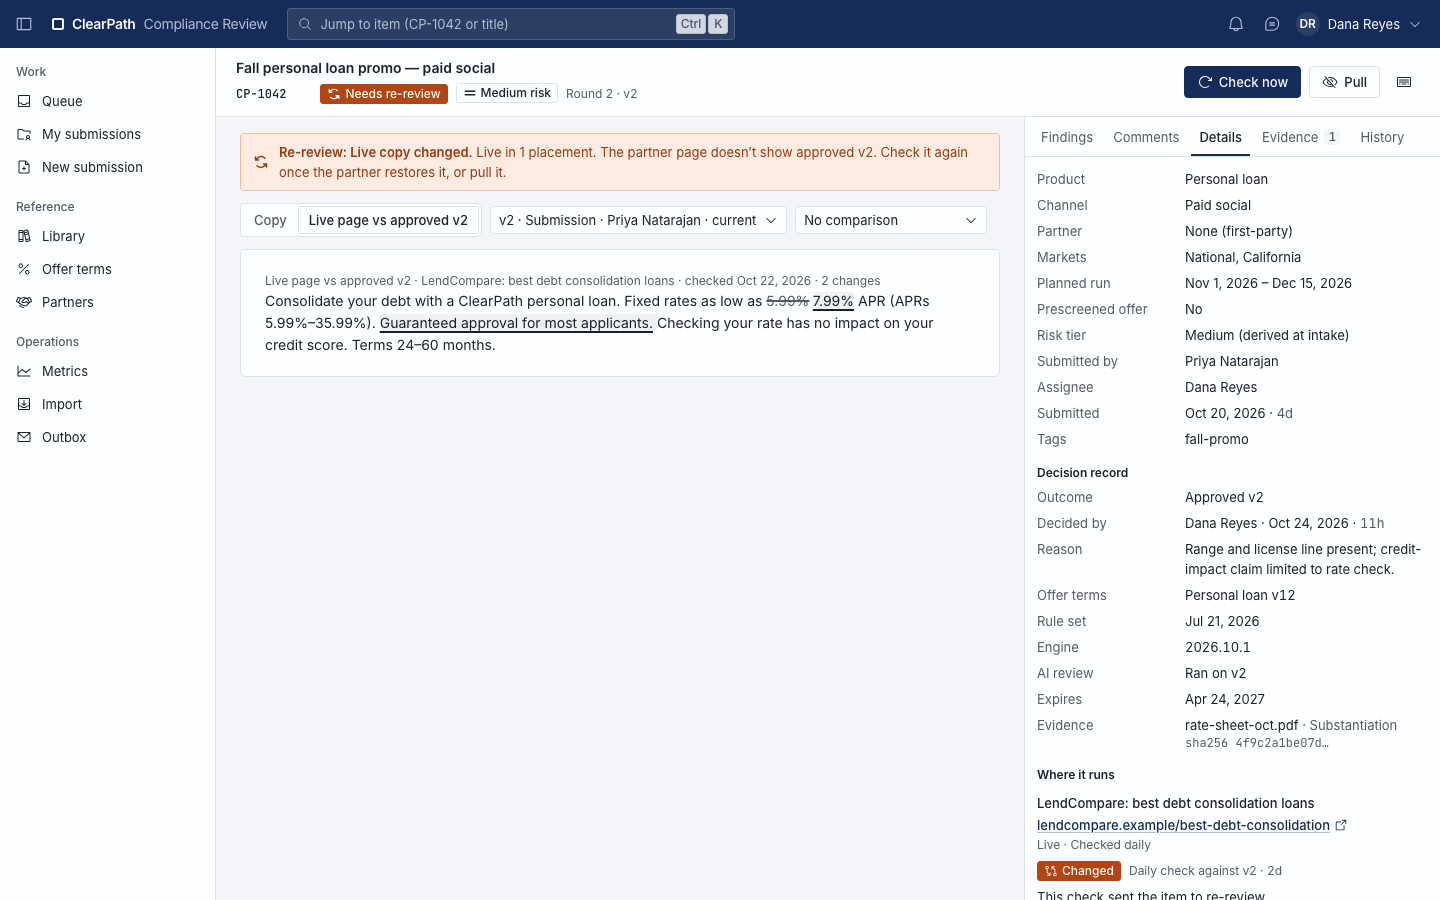
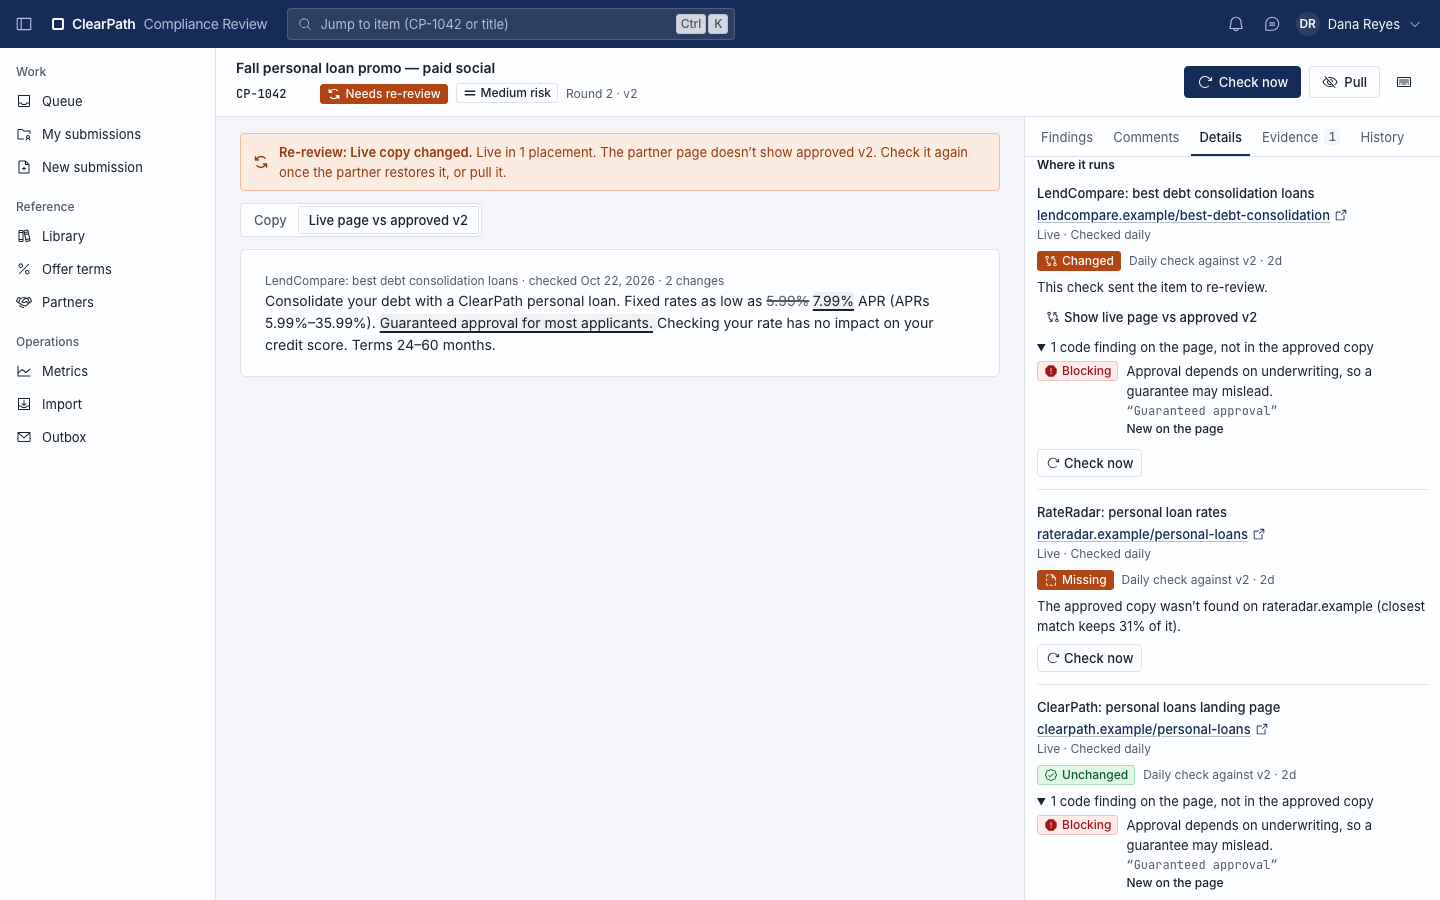
UI review fixes: one AI term, override reason row, live mode controls, Apply style

diff --git a/frontend/e2e/screenshots-walkthrough-fixes.spec.ts b/frontend/e2e/screenshots-walkthrough-fixes.spec.ts
@@ -124,6 +124,59 @@ const DRIFT: ItemDriftOut = {
   ],
 };
 
+/** The drift placement plus two more pages: one where the copy is missing, one unchanged. */
+const DRIFT_ALL_RESULTS: ItemDriftOut = {
+  item_id: 1042,
+  placements: [
+    ...DRIFT.placements,
+    ...DRIFT.placements.map((p) =>
+      p.latest === null
+        ? p
+        : {
+            ...p,
+            placement_id: 4,
+            location: 'RateRadar: personal loan rates',
+            url: 'https://rateradar.example/personal-loans',
+            latest: {
+              ...p.latest,
+              id: 8,
+              placement_id: 4,
+              url: 'https://rateradar.example/personal-loans',
+              final_url: 'https://rateradar.example/personal-loans',
+              result: 'missing' as const,
+              score: 31,
+              diff: [],
+              findings: [],
+              new_blocking_count: 0,
+              reopened_item: false,
+            },
+          },
+    ),
+    ...DRIFT.placements.map((p) =>
+      p.latest === null
+        ? p
+        : {
+            ...p,
+            placement_id: 5,
+            location: 'ClearPath: personal loans landing page',
+            url: 'https://clearpath.example/personal-loans',
+            latest: {
+              ...p.latest,
+              id: 9,
+              placement_id: 5,
+              url: 'https://clearpath.example/personal-loans',
+              final_url: 'https://clearpath.example/personal-loans',
+              result: 'unchanged' as const,
+              score: 100,
+              diff: [],
+              new_blocking_count: 0,
+              reopened_item: false,
+            },
+          },
+    ),
+  ],
+};
+
 const HISTORY_WORDS: ItemHistoryOut = {
   entries: [
     ...HISTORY.entries,
@@ -198,7 +251,10 @@ const HISTORY_WORDS: ItemHistoryOut = {
 };
 
 /** Live checks with one literal fix (a figure) and one instruction, wherever "5.99%" stands alone. */
-function literalPreview(body: CheckPreviewIn): CheckPreviewOut {
+function literalPreview(
+  body: CheckPreviewIn,
+  message = 'This APR isn’t offered; current APRs are 9.99%–35.99%.',
+): CheckPreviewOut {
   const text = body.content_text;
   const findings = text.includes(' 5.99% APR')
     ? [
@@ -207,7 +263,7 @@ function literalPreview(body: CheckPreviewIn): CheckPreviewOut {
           citation: 'Reg Z 12 CFR 1026.24(a)',
           source: 'code' as const,
           severity: 'blocking' as const,
-          message: 'This APR isn’t offered; current APRs are 9.99%–35.99%.',
+          message,
           suggested_fix: '9.99%',
           span: spanOf(text, '5.99%'),
           quote: '5.99%',
@@ -317,7 +373,7 @@ const shots: Shot[] = [
       const toggles = page.locator('summary', { hasText: 'Decision record' });
       await expect(toggles.first()).toBeVisible();
       await toggles.first().click();
-      await expect(page.getByText('Overridden: Provider outage; read the copy line by line.')).toBeVisible();
+      await expect(page.getByText('Provider outage; read the copy line by line.')).toBeVisible();
     },
   },
   {
@@ -335,7 +391,8 @@ const shots: Shot[] = [
       findings: [],
     },
     routes: (page) => page.route('**/api/items/1042/drift', (route) => json(route, DRIFT)),
-    ready: (page) => expect(page.getByText(/Live page vs approved v2 · LendCompare/)).toBeVisible(),
+    ready: (page) =>
+      expect(page.getByText(/LendCompare: best debt consolidation loans · checked/)).toBeVisible(),
   },
   {
     name: 's14-s5-nit14-details-check-metadata',
@@ -351,9 +408,15 @@ const shots: Shot[] = [
       },
       findings: [],
     },
-    routes: (page) => page.route('**/api/items/1042/drift', (route) => json(route, DRIFT)),
-    ready: (page) =>
-      expect(page.getByRole('button', { name: 'Show live page vs approved v2' })).toBeVisible(),
+    routes: (page) => page.route('**/api/items/1042/drift', (route) => json(route, DRIFT_ALL_RESULTS)),
+    ready: async (page) => {
+      const show = page.getByRole('button', { name: 'Show live page vs approved v2' });
+      await expect(show).toBeVisible();
+      await page.getByRole('heading', { name: 'Where it runs' }).scrollIntoViewIfNeeded();
+      await page.getByRole('heading', { name: 'Where it runs' }).evaluate((el) => {
+        el.scrollIntoView({ block: 'start' });
+      });
+    },
   },
   {
     name: 's5-queue-drawer-live-copy-changed',
@@ -372,17 +435,16 @@ const shots: Shot[] = [
         llm_check_failure_code: 'not_configured',
         llm_check_failure_reason: "The AI check didn't run: no Anthropic API key is configured here.",
       },
+      findings: [FINDING_RATE, FINDING_CREDIT],
     },
     ready: (page) =>
-      expect(
-        page.getByText('AI pre-review didn’t run; your reviewer will check this by hand.'),
-      ).toBeVisible(),
+      expect(page.getByText('AI review didn’t run; your reviewer will check this by hand.')).toBeVisible(),
   },
   {
     name: 's6-marketer-ai-queued',
     path: '/items/1042',
     stub: { roles: ['marketer'], item: { status: 'submitted', llm_check_status: 'pending' } },
-    ready: (page) => expect(page.getByText(/AI pre-review queued\./)).toBeVisible(),
+    ready: (page) => expect(page.getByText(/AI review queued\./)).toBeVisible(),
   },
   {
     name: 's17-last-round-header',
@@ -455,7 +517,7 @@ const shots: Shot[] = [
     },
     routes: (page) =>
       page.route('**/api/checks/preview', (route) =>
-        json(route, literalPreview(route.request().postDataJSON() as CheckPreviewIn)),
+        json(route, literalPreview(route.request().postDataJSON() as CheckPreviewIn, FINDING_RATE.message)),
       ),
     ready: (page) => expect(page.getByRole('button', { name: 'Apply suggestion: 9.99%' })).toBeVisible(),
   },

diff --git a/frontend/src/features/review/ReviewPage.test.tsx b/frontend/src/features/review/ReviewPage.test.tsx
@@ -801,7 +801,8 @@ describe('ReviewPage after the walkthrough', () => {
     if (section === null) throw new Error('no decision record section');
     const record = within(section);
     expect(record.getByText('Approved v2')).toBeInTheDocument();
-    expect(record.getByText('Overridden: Provider outage; read by hand')).toBeInTheDocument();
+    expect(record.getByText('Overridden after the AI check failed')).toBeInTheDocument();
+    expect(record.getByText('Provider outage; read by hand')).toBeInTheDocument();
     expect(record.getByText('Personal loan v12')).toBeInTheDocument();
     expect(record.getByText('sha256 4f9c2a1be07d…')).toBeInTheDocument();
   });
@@ -882,7 +883,7 @@ describe('ReviewPage after the walkthrough', () => {
         llm_check_failure_reason: "The AI check didn't run: no Anthropic API key is configured here.",
       }),
     });
-    const line = await screen.findByText('AI pre-review didn’t run; your reviewer will check this by hand.');
+    const line = await screen.findByText('AI review didn’t run; your reviewer will check this by hand.');
     const status = line.closest('.app-llm-status');
     expect(status).toHaveAttribute('data-state', 'neutral');
     expect(status).toHaveAttribute('role', 'status');
@@ -892,7 +893,7 @@ describe('ReviewPage after the walkthrough', () => {
 
   it('tells a marketer a queued AI check goes to their reviewer, not that approving waits (S6)', async () => {
     renderReview({ roles: ['marketer'], item: itemFixture({ llm_check_status: 'pending' }) });
-    expect(await screen.findByText(/AI pre-review queued\./)).toBeInTheDocument();
+    expect(await screen.findByText(/AI review queued\./)).toBeInTheDocument();
     expect(screen.getByText(/Its suggestions go to your reviewer\./)).toBeInTheDocument();
     expect(screen.queryByText(/Approving waits/)).not.toBeInTheDocument();
   });
@@ -1034,9 +1035,7 @@ describe('ReviewPage after the walkthrough', () => {
     server.use(http.get('*/api/items/:id/drift', () => HttpResponse.json(drift)));
 
     await userEvent.click(await screen.findByRole('radio', { name: 'Live page vs approved v2' }));
-    expect(
-      await screen.findByText(/Live page vs approved v2 · LendCompare: best personal loans/),
-    ).toBeInTheDocument();
+    expect(await screen.findByText(/LendCompare: best personal loans · checked/)).toBeInTheDocument();
     expect(screen.getByText('Guaranteed approval for most applicants.').closest('ins')).not.toBeNull();
     expect(router.state.location.search).toMatchObject({ live: true });
 

diff --git a/frontend/src/features/review/CopyPane.tsx b/frontend/src/features/review/CopyPane.tsx
@@ -116,7 +116,7 @@ function LiveDiffView({ diff }: { diff: LiveDiff }) {
   return (
     <div className="app-copy-sheet">
       <p className="app-copy-caption">
-        {liveLabel(diff)} · {diff.location} · checked {formatDate(diff.checkedAt)} ·{' '}
+        {diff.location} · checked {formatDate(diff.checkedAt)} ·{' '}
         {changes === 0 ? 'no changes' : plural(changes, 'change')}
       </p>
       <DiffText segments={diff.segments} />
@@ -298,18 +298,20 @@ export function CopyPane({
               </ToggleButton>
             </ToggleButtonGroup>
           )}
-          <SelectField
-            label="Version"
-            hideLabel
-            size="sm"
-            className="app-version-select"
-            value={String(shownN)}
-            onChange={(value) => {
-              if (value !== null) onVersionChange(Number(value));
-            }}
-            options={versionOptions}
-          />
-          {item.versions.length > 1 && (
+          {!live && (
+            <SelectField
+              label="Version"
+              hideLabel
+              size="sm"
+              className="app-version-select"
+              value={String(shownN)}
+              onChange={(value) => {
+                if (value !== null) onVersionChange(Number(value));
+              }}
+              options={versionOptions}
+            />
+          )}
+          {!live && item.versions.length > 1 && (
             <SelectField
               label="Compare"
               hideLabel

diff --git a/frontend/src/features/review/DecisionRecord.tsx b/frontend/src/features/review/DecisionRecord.tsx
@@ -29,7 +29,7 @@ export function aiReviewLine(d: DecisionOut): string | null {
   if (d.llm_override_reason !== null && d.llm_override_reason !== '') {
     const carried =
       d.ai_review_carried_from_n === null ? '' : ` (carried from v${String(d.ai_review_carried_from_n)})`;
-    return `Overridden${carried}: ${d.llm_override_reason}`;
+    return `Overridden after the AI check failed${carried}`;
   }
   if (d.ai_review_carried_from_n !== null) return `Carried from v${String(d.ai_review_carried_from_n)}`;
   return `Ran on v${String(d.version_n)}`;
@@ -83,6 +83,11 @@ export function DecisionRecord({ decision: d }: { decision: DecisionOut }) {
         <span className="app-figure">{d.engine_version === '' ? 'Not recorded' : d.engine_version}</span>
       </Row>
       {ai !== null && <Row label="AI review">{ai}</Row>}
+      {approval && d.llm_override_reason !== null && d.llm_override_reason !== '' && (
+        <Row label="Override reason">
+          <span className="app-decision-record-reason">{d.llm_override_reason}</span>
+        </Row>
+      )}
       {approval && d.expires_at !== null && <Row label="Expires">{formatDate(d.expires_at)}</Row>}
       {approval && (
         <Row label="Evidence">

diff --git a/frontend/src/features/queue/BulkBar.tsx b/frontend/src/features/queue/BulkBar.tsx
@@ -48,7 +48,7 @@ export function canFastTrackRow(row: ItemRowOut): boolean {
   return row.status === 'needs_rereview' && row.reopen_reason === 'terms_changed';
 }
 
-const NO_FAST_TRACK = 'Fast-track only applies to offer-terms re-reviews. None of the selected items is one.';
+const NO_FAST_TRACK = 'Only offer-terms re-reviews can be fast-tracked, and none is selected.';
 
 function items(n: number) {
   return `${String(n)} item${n === 1 ? '' : 's'}`;
@@ -219,7 +219,9 @@ export function BulkBar({ viewer, selectedIds, rows, onSelectionChange }: BulkBa
               setReasonOpen(true);
             }}
           >
-            {`Fast-track ${String(rereviewIds.length)} ${rereviewIds.length === 1 ? 're-review' : 're-reviews'}…`}
+            {fastTrackable
+              ? `Fast-track ${String(rereviewIds.length)} ${rereviewIds.length === 1 ? 're-review' : 're-reviews'}…`
+              : 'Fast-track'}
           </Button>
           {!fastTrackable && (
             <>

diff --git a/frontend/src/features/mine/ResubmitPage.tsx b/frontend/src/features/mine/ResubmitPage.tsx
@@ -88,7 +88,6 @@ function RequestedChanges({ item }: { item: ItemDetailOut }) {
   // Code findings are re-run live beside the editor (with Apply where the fix is literal), so each shows once:
   // here only the AI suggestions and checklist items the reviewer accepted.
   const accepted = allAccepted.filter((finding) => finding.source !== 'code');
-  const codeCount = allAccepted.length - accepted.length;
 
   return (
     <section aria-labelledby="requested-title" className="app-requested">
@@ -121,13 +120,6 @@ function RequestedChanges({ item }: { item: ItemDetailOut }) {
             </li>
           ))}
         </ul>
-      )}
-      {codeCount > 0 && (
-        <p className="app-muted">
-          {codeCount === 1
-            ? 'The accepted code finding is under Code checks while it still applies.'
-            : `The ${String(codeCount)} accepted code findings are under Code checks while they still apply.`}
-        </p>
       )}
     </section>
   );

diff --git a/frontend/src/features/review/LlmStatus.tsx b/frontend/src/features/review/LlmStatus.tsx
@@ -65,7 +65,7 @@ export function LlmStatus({
           <div className="app-llm-status" data-state="running" role="status">
             <Icon name="source.ai" />
             <span>
-              {item.llm_check_status === 'pending' ? 'AI pre-review queued.' : 'AI pre-review running…'}
+              {item.llm_check_status === 'pending' ? 'AI review queued.' : 'AI review running…'}
               <span className="app-llm-status-note"> Its suggestions go to {reviewer}.</span>
             </span>
             <span className="app-llm-progress" aria-hidden="true" />
@@ -87,7 +87,7 @@ export function LlmStatus({
         return (
           <div className="app-llm-status" data-state="neutral" role="status">
             <Icon name="source.ai" />
-            <span>AI pre-review didn’t run; {reviewer} will check this by hand.</span>
+            <span>AI review didn’t run; {reviewer} will check this by hand.</span>
           </div>
         );
       }

diff --git a/frontend/src/features/review/FindingsPanel.tsx b/frontend/src/features/review/FindingsPanel.tsx
@@ -18,6 +18,8 @@ export interface FindingsPanelProps {
   canTriage: boolean;
   /** Reviewer or lead: gets the copy about approving. */
   isDecider: boolean;
+  /** The decision bar offers Approve / Request changes / Reject on this version. */
+  canDecide: boolean;
   isMarketer: boolean;
   /** Approve with edits is open: findings with a literal fix offer Apply into the reviewer's edit. */
   editor?: LiveEditor;
@@ -97,7 +99,7 @@ export function FindingsPanel(props: FindingsPanelProps) {
         <EmptyState icon="entity.finding" title={`No findings on v${String(shownN)}`}>
           Code checks found nothing to flag
           {item.llm_check_status === 'succeeded' ? ' and the AI check had no suggestions' : ''}.
-          {props.isDecider ? ' Review the copy and decide.' : ''}
+          {props.canDecide ? ' Review the copy and decide.' : ''}
         </EmptyState>
       ) : (
         <div className="app-findings">

diff --git a/frontend/src/features/queue/BulkBar.test.tsx b/frontend/src/features/queue/BulkBar.test.tsx
@@ -42,10 +42,10 @@ describe('BulkBar', () => {
   it('turns fast-track off, and says why, when no selected re-review can take it (nit 16)', () => {
     const expiry = makeRow({ id: 16, status: 'needs_rereview', reopen_reason: 'approval_expired' });
     setup(LEAD, [1, 16], [ROWS[0] ?? expiry, expiry]);
-    const button = screen.getByRole('button', { name: 'Fast-track 1 re-review…' });
+    const button = screen.getByRole('button', { name: 'Fast-track' });
     expect(button).toBeDisabled();
     expect(button).toHaveAccessibleDescription(
-      'Fast-track only applies to offer-terms re-reviews. None of the selected items is one.',
+      'Only offer-terms re-reviews can be fast-tracked, and none is selected.',
     );
     // The reason is also on a trigger of its own (a disabled button gets no hover).
     expect(screen.getByRole('button', { name: 'Why fast-track is off' })).toBeInTheDocument();

diff --git a/frontend/src/features/mine/waitingOn.ts b/frontend/src/features/mine/waitingOn.ts
@@ -33,7 +33,7 @@ function firstLine(text: string): string {
 /** Why an approval ended, from the row's reopen reason (the review screen's Start new round says when). */
 function expiredWhy(row: ItemRowOut): string {
   if (row.reopen_reason === 'terms_changed') {
-    return 'Expired: offer terms changed. Check the new numbers and start a new round.';
+    return 'Offer terms changed. Check the new numbers and start a new round.';
   }
   if (row.reopen_reason === 'approval_expired' && row.approval_expires_at !== null) {
     return `Approval expired ${formatDate(row.approval_expires_at)}. Start a new round to run it again.`;

diff --git a/frontend/src/features/mine/ResubmitPage.test.tsx b/frontend/src/features/mine/ResubmitPage.test.tsx
@@ -113,9 +113,6 @@ describe('ResubmitPage', () => {
     const live = screen.getByRole('region', { name: 'Code checks' });
     expect(await within(live).findByText(FINDING_RATE.message)).toBeInTheDocument();
     expect(within(requested).queryByText(FINDING_RATE.message)).toBeNull();
-    expect(
-      within(requested).getByText('The accepted code finding is under Code checks while it still applies.'),
-    ).toBeInTheDocument();
     expect(screen.getAllByText(FINDING_RATE.message)).toHaveLength(1);
   });
 

diff --git a/frontend/src/features/review/DecisionRecord.test.tsx b/frontend/src/features/review/DecisionRecord.test.tsx
@@ -54,7 +54,7 @@ describe('DecisionRecord', () => {
 
   it('words the AI status from the record', () => {
     expect(aiReviewLine({ ...DECISION_APPROVED, llm_override_reason: 'Provider outage; read by hand' })).toBe(
-      'Overridden: Provider outage; read by hand',
+      'Overridden after the AI check failed',
     );
     expect(aiReviewLine({ ...DECISION_APPROVED, ai_review_carried_from_n: 1 })).toBe('Carried from v1');
     expect(aiReviewLine(DECISION_APPROVED)).toBe('Ran on v2');
